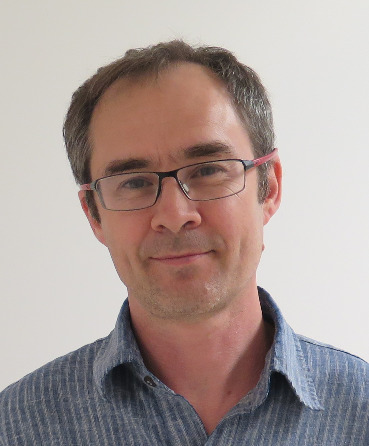
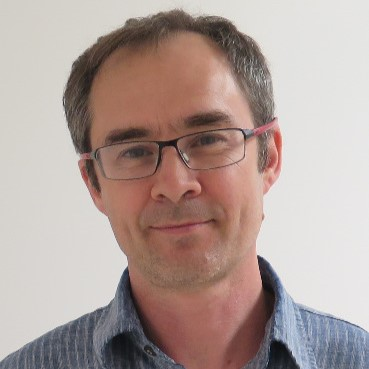
[MAINT] Update getting help + photos (neurobagel/documentation#47)
* add instructions for using feedback widget

* update contributor photos

* add commands to fetch example .ttl files

* add neurostars tag to getting help

* recrop contributor photos

diff --git a/docs/docs/overrides/home.html b/docs/docs/overrides/home.html
@@ -443,7 +443,7 @@ Help us find a logo for Neurobagel: <a href="https://form.jotform.com/2319746994
                 <div class="flex items-center gap-x-6">
                     <a href="https://github.com/bcmcpher" target="_blank">
                         <img class="h-16 w-16 rounded-full"
-                        src="assets/img/brent_mcpherson.png"
+                        src="assets/img/brent_mcpherson.jpg"
                         alt="">
                     </a>
                     <div>
@@ -493,7 +493,7 @@ Help us find a logo for Neurobagel: <a href="https://form.jotform.com/2319746994
                 <div class="flex items-center gap-x-6">
                     <a href="https://github.com/michellewang" target="_blank">
                         <img class="h-16 w-16 rounded-full"
-                        src="assets/img/michelle_wang.png"
+                        src="assets/img/michelle_wang.jpg"
                         alt="">
                     </a>
                     

diff --git a/docs/docs/infrastructure.md b/docs/docs/infrastructure.md
@@ -206,24 +206,24 @@ curl -X PUT -i -u "admin:NewPassword" http://localhost:5820/admin/permissions/us
 In order to test that the setup has worked correctly,
 we need to add some data to the database.
 
-You can take two example files from the [Neurobagel
-example](https://github.com/neurobagel/examples) repository to get started:
+You can use the two example `.ttl` files from the [`neurobagel_examples`](https://github.com/neurobagel/examples) repository to get started:
 
-- [example 1](https://github.com/neurobagel/examples/blob/4ccfffba5330242175e22b0bfa1813625186f9c1/example_1.ttl)
-- [example 2](https://github.com/neurobagel/examples/blob/4ccfffba5330242175e22b0bfa1813625186f9c1/example_2.ttl)
+```bash
+git clone https://github.com/neurobagel/neurobagel_examples.git
 
-Normally you would create these files by first annotating
-the phenotypic information of a BIDS dataset with the 
-Neurobagel annotator, and then parsing the annotated BIDS
-dataset with the Neurobagel CLI.
-
-Upload the example files to the graph using this command:
-
-```console
-curl -u "admin:NewPassword" -i -X POST http://localhost:5820/test_data \
--H "Content-Type: text/turtle" \
---data-binary @example_1.ttl
+# Upload the two example files to the graph
+for example in neurobagel_examples/*.ttl; do
+    curl -u "admin:NewPassword" -i -X POST http://localhost:5820/test_data \
+    -H "Content-Type: text/turtle" \
+    --data-binary @{example}
+done
 ```
+
+!!! info
+    Normally you would create the graph-ready files by first annotating
+    the phenotypic information of a BIDS dataset with the 
+    Neurobagel annotator, and then parsing the annotated BIDS
+    dataset with the Neurobagel CLI.
 
 ### Test the new deployment
 

diff --git a/docs/docs/getting_help.md b/docs/docs/getting_help.md
@@ -1,3 +1,7 @@
 # Getting Help
 
-For a specific tool question or feature request, feel free to open an issue in the corresponding repository in the [Neurobagel GitHub organization](https://github.com/neurobagel).
+For a bug or feature request, feel free to open an issue in the repository for the relevant tool in the [Neurobagel GitHub organization](https://github.com/neurobagel).
+
+If you are using one of our web tools ([https://query.neurobagel.org](https://query.neurobagel.org) or [https://query.neurobagel.org](https://annotate.neurobagel.org)), you can also submit suggestions and bugs using the feedback widget directly on the site.
+
+For general questions about Neurobagel, please open an issue on Neurostars with the `neurobagel` tag: [https://neurostars.org/tag/neurobagel](https://neurostars.org/tag/neurobagel).
